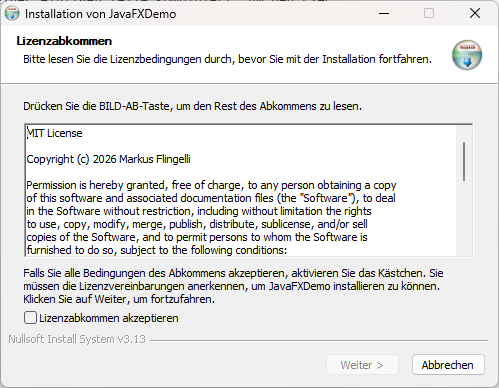
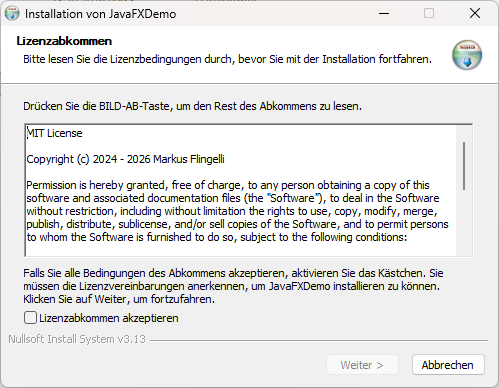
Documentation updated.

Changed region(s): [[0.0301, 0.4639, 0.9018, 0.6804], [0.2104, 0.4021, 0.4509, 0.433]]

diff --git a/README.md b/README.md
@@ -25,6 +25,12 @@ Die vollständige Angabe lautet beispielsweise:
 Die OpenFX-Installation befindet sich im Ordner `C:\Software\javafx-sdk-21.0.4\lib`. Da
 auch das Modul `javafx.controls` verwendet werden soll, ist dieses anzugeben.
 
+## Projektstruktur
+
+In der Projektstruktur (File -> Project Structure...) müssen noch die JavaFX-Bibliotheken eingebunden werden (Ordner `lib`).
+
+![Projektstruktur der Bibliotheken](doc/Project-Structure-Libraries.png)
+
 ## JavaFX controls
 
 Das GitHub-Projekt controlsfx stellt zusätzliche UI-Elemente zur Verfügung.

diff --git a/LICENSE.md b/LICENSE.md
@@ -1,4 +1,4 @@
-Copyright (c) 2024 Markus Flingelli
+Copyright (c) 2024 - 2026 Markus Flingelli
 
 Permission is hereby granted, free of charge, to any person obtaining a copy of this software and associated documentation files (the "Software"), to deal in the Software without restriction, including without limitation the rights to use, copy, modify, merge, publish, distribute, sublicense, and/or sell copies of the Software, and to permit persons to whom the Software is furnished to do so, subject to the following conditions:
 
